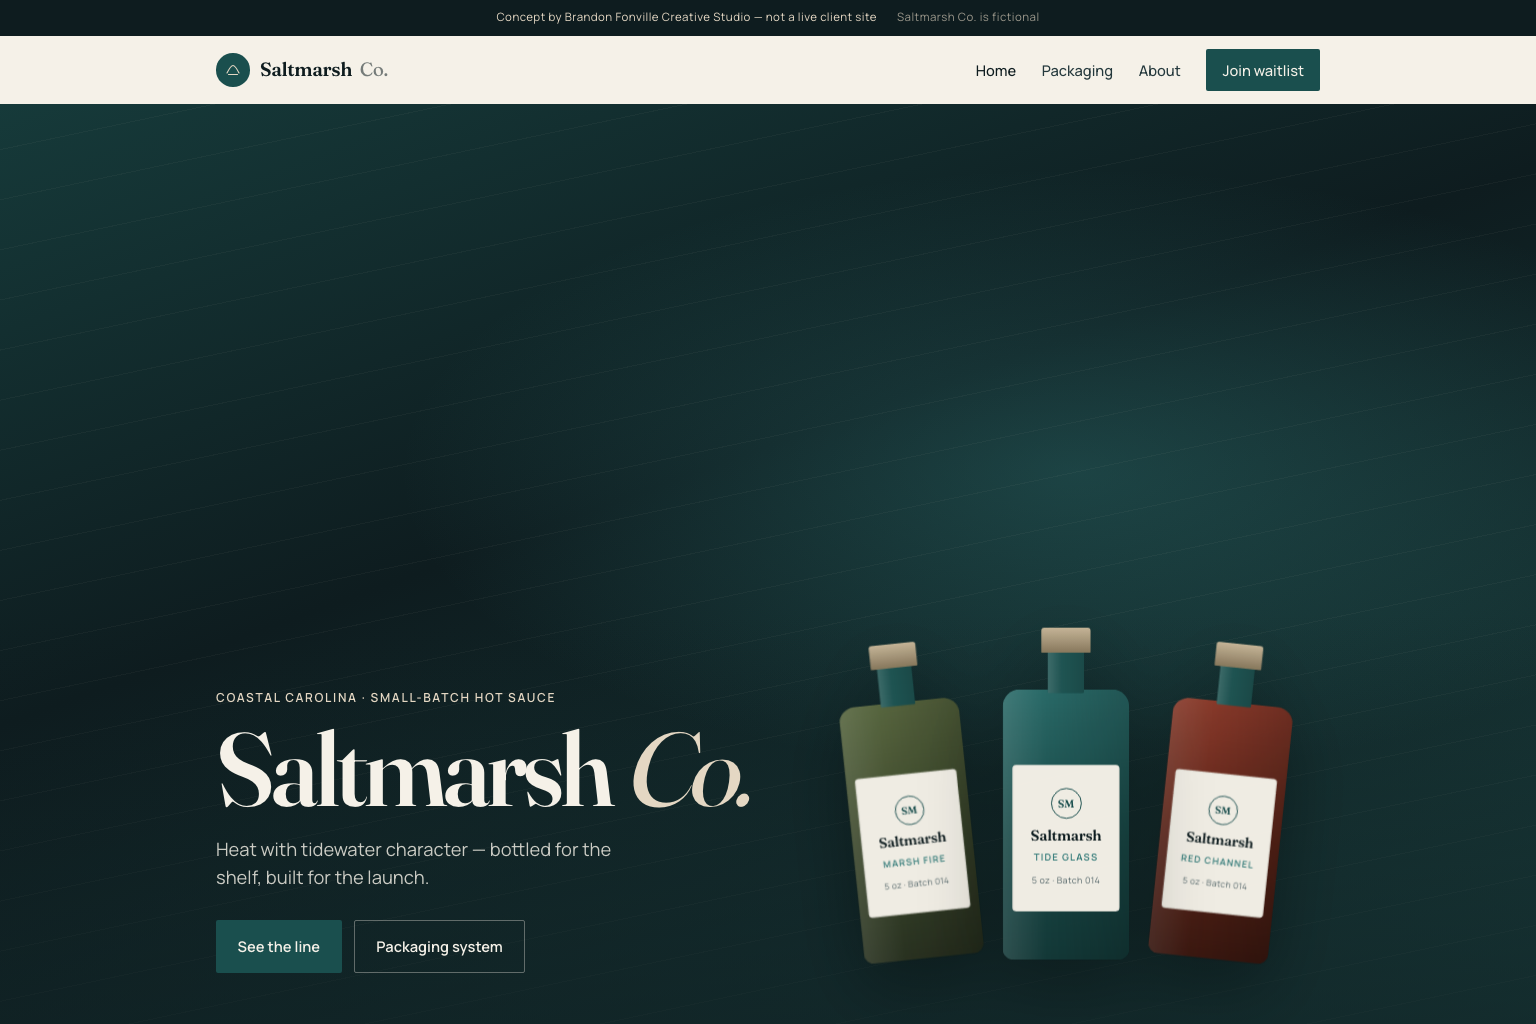
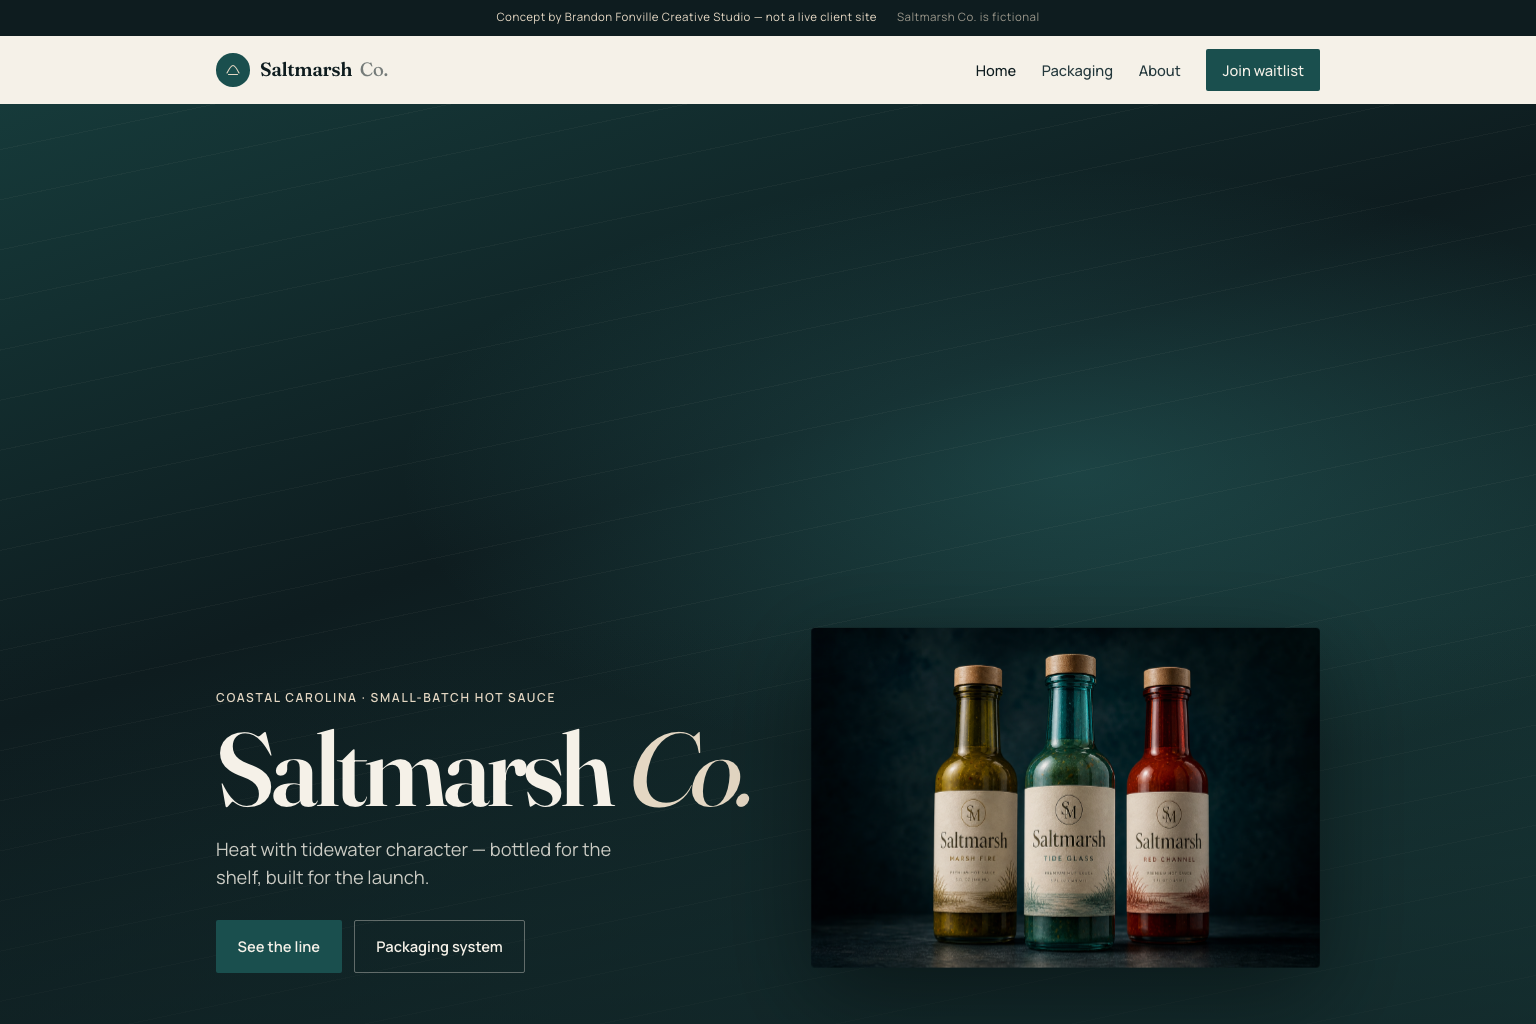
Add photoreal Saltmarsh CPG portfolio shots and ashlar-3 scroll polish for live deploy.

Changed region(s): [[0.5, 0.5938, 0.875, 0.9688]]

diff --git a/script.js b/script.js
@@ -119,7 +119,8 @@ const io = new IntersectionObserver(
       }
     });
   },
-  { threshold: 0.12, rootMargin: "0px 0px -40px 0px" }
+  // Low threshold so tall blocks (work board, packages) reveal as soon as they enter
+  { threshold: 0.02, rootMargin: "0px 0px -24px 0px" }
 );
 document.querySelectorAll(".reveal").forEach((el, i) => {
   el.style.transitionDelay = `${(i % 4) * 70}ms`;
@@ -138,6 +139,19 @@ function revealInView() {
 revealInView();
 window.addEventListener("load", revealInView);
 window.addEventListener("resize", revealInView);
+// Safety net: IO alone can miss tall sections / late layout; keep scroll coherent
+let revealScrollTick = 0;
+window.addEventListener(
+  "scroll",
+  () => {
+    if (revealScrollTick) return;
+    revealScrollTick = requestAnimationFrame(() => {
+      revealScrollTick = 0;
+      revealInView();
+    });
+  },
+  { passive: true }
+);
 
 // ---------- Assembly layers ----------
 const ASSEMBLY = [
@@ -273,7 +287,7 @@ function initWorkBoard(projects) {
       const code = `A-${String(101 + i).padStart(3, "0")}`;
       const meta = (p.meta || p.tag || "").toUpperCase();
       return `
-      <button type="button" class="work-card" data-project="${p.id}" aria-label="Open case study: ${p.title}">
+      <button type="button" class="work-card reveal" data-project="${p.id}" aria-label="Open case study: ${p.title}">
         <div class="work-card__frame">
           <div class="work-card__blueprint" aria-hidden="true" style="background-image:url('${preview.src}')"></div>
           <div class="work-card__photo" style="background-image:url('${preview.src}')"></div>
@@ -287,6 +301,8 @@ function initWorkBoard(projects) {
       </button>`;
     })
     .join("");
+
+  observeReveals(workBoard);
 
   workBoard.querySelectorAll(".work-card").forEach((card) => {
     const frame = card.querySelector(".work-card__frame");

diff --git a/index.html b/index.html
@@ -21,7 +21,7 @@
   <link rel="preconnect" href="https://fonts.gstatic.com" crossorigin />
   <link href="https://api.fontshare.com/v2/css?f[]=cabinet-grotesk@400,500,700,800&display=swap" rel="stylesheet" />
   <link href="https://fonts.googleapis.com/css2?family=IBM+Plex+Mono:wght@400;500&family=Inter:ital,opsz,wght@0,14..32,400;0,14..32,500;0,14..32,600;0,14..32,700;1,14..32,400&display=swap" rel="stylesheet" />
-  <link rel="stylesheet" href="styles.css?v=ashlar-2" />
+  <link rel="stylesheet" href="styles.css?v=ashlar-3" />
   <script>document.documentElement.classList.add("js");</script>
   <noscript><style>.reveal{opacity:1!important;transform:none!important}.intro{display:none!important}.hero-copy,.hero-actions,.hero-blueprint{opacity:1!important;transform:none!important}</style></noscript>
 </head>
@@ -148,7 +148,7 @@
       <p class="section-note">Identity, product, packaging, web, and print. Touch a project to open the case study — hover to reveal the build.</p>
     </div>
 
-    <div class="work-board reveal" id="workBoard" aria-label="Project board"></div>
+    <div class="work-board" id="workBoard" aria-label="Project board"></div>
 
     <div id="workProjects" class="work-projects-host" hidden></div>
   </section>
@@ -642,7 +642,7 @@
   </div>
 
   <script src="work-store.js"></script>
-  <script src="script.js?v=ashlar-2"></script>
+  <script src="script.js?v=ashlar-3"></script>
   <script src="raffle-wheel.js"></script>
 </body>
 </html>

diff --git a/styles.css b/styles.css
@@ -63,7 +63,10 @@
 
 * { box-sizing: border-box; margin: 0; padding: 0; }
 
-html { scroll-behavior: smooth; }
+html {
+  scroll-behavior: smooth;
+  scroll-padding-top: 88px;
+}
 
 body {
   background: var(--bg);
@@ -283,9 +286,10 @@ button, input, select, textarea { font: inherit; color: inherit; }
 section {
   position: relative;
   z-index: 1;
-  padding: clamp(72px, 10vw, 120px) var(--offset);
+  padding: clamp(88px, 10vw, 120px) var(--offset);
   max-width: var(--maxw);
   margin: 0 auto;
+  scroll-margin-top: 88px;
 }
 
 .sheet-label {
@@ -686,20 +690,21 @@ section {
   max-width: none;
   background: var(--hero-bg);
   color: var(--paper);
-  padding-top: clamp(72px, 10vw, 110px);
+  padding-top: clamp(88px, 10vw, 120px);
   padding-bottom: clamp(72px, 10vw, 110px);
 }
 .assembly-stage {
   max-width: var(--maxw);
-  margin: 24px auto 0;
+  margin: 28px auto 0;
   display: grid;
   grid-template-columns: 1.1fr 0.9fr;
   gap: clamp(32px, 6vw, 72px);
-  align-items: end;
-  min-height: 520px;
+  align-items: center;
+  min-height: 0;
 }
 .assembly-visual {
-  min-height: 420px;
+  min-height: min(420px, 52vh);
+  aspect-ratio: 4 / 3;
   display: grid;
   place-items: center;
   background:
